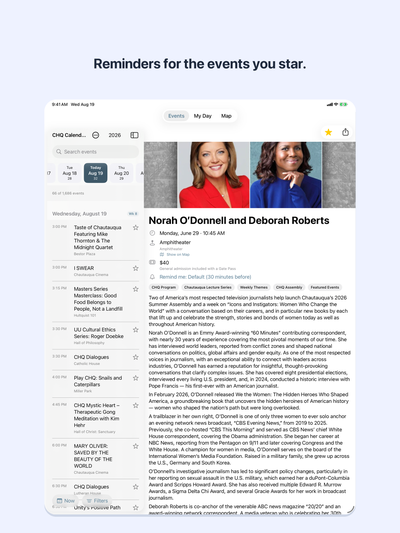
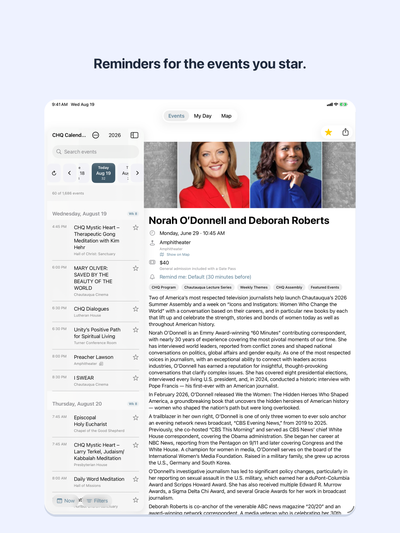
fix(ios): pin the rail's edge controls and let a tap own the highlight
Two user-reported day-rail defects on the Events tab:

- Swiping the rail away and tapping a chip moved the list to the right
  day but left nothing highlighted and the rail off-centre. The tapped
  day's pendingScroll resolves synchronously once it's already inside
  the window, and authority fell straight back to the scroll-derived
  anchor (visibleDays.min()), which the existing doc on visibleDays
  already showed lands a day or two short of a .top-anchored scrollTo's
  real destination. EventListView now tracks an explicit
  pinnedSelection, set by a tap and ranked above the scroll anchor,
  cleared only when the reader drags the list themselves
  (.onScrollPhaseChange .tracking/.interacting) — reusing
  PendingDayScroll's Key/staleness so a filter/scope change can't leave
  it stale.

- ⟳ Now and both step chevrons scrolled away with the chips because
  they lived inside the rail's own scrolling HStack, so a reader who'd
  swiped a few days along lost every way back to today.
  DayRailView.body now pins leading()/trailing() outside the horizontal
  ScrollView; only the chips scroll between them. The
  accessibilityIdentifier("day-rail") stays on the inner ScrollView
  (every UI test's revealByScrolling depends on that frame), and the
  group accessibility label/role move to the outer HStack. This also
  pins My Day's expand chevrons, since it's the same component.

Added two DayRailUITests cases proven to fail against the prior
[…]

diff --git a/ios/ChqCalendar/Features/Shared/DayRailView.swift b/ios/ChqCalendar/Features/Shared/DayRailView.swift
@@ -124,69 +124,85 @@ struct DayRailView<Leading: View, Trailing: View>: View {
     /// Tracking both lets the same comparison serve both triggers.
     @State private var lastCentered: (day: String, reanchorOn: [AnyHashable])?
 
+    /// `leading()`/`trailing()` are fixed furniture at the rail's two ends —
+    /// outside the horizontal `ScrollView` entirely — and only the chips
+    /// scroll between them. Before this shape (#245), both were part of the
+    /// same scrolling `HStack` as the chips: swiping the strip a few days
+    /// along scrolled `⟳ Now` and both step chevrons away with it, leaving
+    /// no way back to today except swiping back to find them. Pulling them
+    /// out of the scrollable content is what keeps them reachable no matter
+    /// how far the chips have scrolled.
     var body: some View {
-        ScrollViewReader { proxy in
-            ScrollView(.horizontal, showsIndicators: false) {
-                HStack(spacing: 8) {
-                    leading()
-                    ForEach(entries) { entry in
-                        DayChip(
-                            dayKey: entry.day,
-                            content: entry.content,
-                            isSelected: entry.day == selectedDay,
-                            isDisabled: disablesEmptyDays && entry.content.isEmpty
-                        ) {
-                            onSelect(entry.day)
+        HStack(spacing: 8) {
+            leading()
+            ScrollViewReader { proxy in
+                ScrollView(.horizontal, showsIndicators: false) {
+                    HStack(spacing: 8) {
+                        ForEach(entries) { entry in
+                            DayChip(
+                                dayKey: entry.day,
+                                content: entry.content,
+                                isSelected: entry.day == selectedDay,
+                                isDisabled: disablesEmptyDays && entry.content.isEmpty
+                            ) {
+                                onSelect(entry.day)
+                            }
+                            .id(entry.day)
                         }
-                        .id(entry.day)
                     }
-                    trailing()
+                    .padding(.horizontal, 8)
                 }
-                .padding(.horizontal)
+                .onScrollPhaseChange { _, newPhase in
+                    isDragging = newPhase == .tracking || newPhase == .interacting
+                }
+                .onAppear { scroll(proxy, to: selectedDay) }
+                .onChange(of: selectedDay) { _, day in
+                    guard !isDragging else { return }
+                    scroll(proxy, to: day)
+                }
+                // Gated the same as `selectedDay` above — this re-centre is
+                // exactly as capable of fighting a manual drag (My Day's expand
+                // toggle can fire while the reader has a finger on the rail),
+                // so it must not bypass the guard just because its trigger
+                // isn't `selectedDay` itself.
+                .onChange(of: reanchorOn) { _, _ in
+                    guard !isDragging else { return }
+                    scroll(proxy, to: selectedDay)
+                }
+                // Catches up anything that changed *while* suppressed above: the
+                // drag ending is not itself a `selectedDay`/`reanchorOn` change,
+                // so without this a re-centre that landed mid-drag would
+                // otherwise never get applied. Only fires when the target
+                // actually diverged from what's centered now — see
+                // `lastCentered`'s doc for why a plain "something changed" flag
+                // was tried and reverted.
+                .onChange(of: isDragging) { _, dragging in
+                    guard !dragging, let day = selectedDay,
+                        lastCentered?.day != day || lastCentered?.reanchorOn != reanchorOn
+                    else { return }
+                    scroll(proxy, to: day)
+                }
+                // Every UI test that queries the rail resolves it as
+                // `app.scrollViews["day-rail"]`, and `revealByScrolling`
+                // derives its drag coordinates from that element's frame —
+                // both depend on the identifier landing on exactly this
+                // `ScrollView`, not the outer `HStack` that now also holds
+                // `leading()`/`trailing()`. That's also the more correct
+                // frame for those drag coordinates now: it no longer
+                // includes the two fixed controls at the ends.
+                .accessibilityIdentifier("day-rail")
             }
-            .onScrollPhaseChange { _, newPhase in
-                isDragging = newPhase == .tracking || newPhase == .interacting
-            }
-            .onAppear { scroll(proxy, to: selectedDay) }
-            .onChange(of: selectedDay) { _, day in
-                guard !isDragging else { return }
-                scroll(proxy, to: day)
-            }
-            // Gated the same as `selectedDay` above — this re-centre is
-            // exactly as capable of fighting a manual drag (My Day's expand
-            // toggle can fire while the reader has a finger on the rail),
-            // so it must not bypass the guard just because its trigger
-            // isn't `selectedDay` itself.
-            .onChange(of: reanchorOn) { _, _ in
-                guard !isDragging else { return }
-                scroll(proxy, to: selectedDay)
-            }
-            // Catches up anything that changed *while* suppressed above: the
-            // drag ending is not itself a `selectedDay`/`reanchorOn` change,
-            // so without this a re-centre that landed mid-drag would
-            // otherwise never get applied. Only fires when the target
-            // actually diverged from what's centered now — see
-            // `lastCentered`'s doc for why a plain "something changed" flag
-            // was tried and reverted.
-            .onChange(of: isDragging) { _, dragging in
-                guard !dragging, let day = selectedDay,
-                    lastCentered?.day != day || lastCentered?.reanchorOn != reanchorOn
-                else { return }
-                scroll(proxy, to: day)
-            }
+            trailing()
         }
-        // Chained off `ScrollViewReader`, not the `ScrollView` inside it.
-        // `ScrollViewReader` contributes no accessibility element of its
-        // own, so these three modifiers land on the `ScrollView` below it
-        // either way — confirmed by dumping `app.debugDescription` against
-        // a running build, which reports `ScrollView, ... identifier:
-        // 'day-rail'`. Do not "fix" this by moving the modifiers onto the
-        // inner `ScrollView` directly: it would compile and look tidier,
-        // but every UI test that queries `app.scrollViews["day-rail"]`
-        // depends on the identifier landing exactly here.
+        // On the outer `HStack` now that `leading()`/`trailing()` live
+        // beside the `ScrollView` rather than inside it — a group of
+        // controls still needs one group role and one label covering the
+        // whole strip (the lesson from the web header menu, PR #228/#219).
+        // `.contain` keeps every descendant (the two end controls, each
+        // chip) individually accessible; only the container-level role and
+        // label move here.
         .accessibilityElement(children: .contain)
         .accessibilityLabel(accessibilityLabel)
-        .accessibilityIdentifier("day-rail")
     }
 
     private func scroll(_ proxy: ScrollViewProxy, to day: String?) {

diff --git a/ios/ChqCalendar/Features/Calendar/EventListView.swift b/ios/ChqCalendar/Features/Calendar/EventListView.swift
@@ -102,6 +102,29 @@ struct EventListView: View {
     /// the window *away* from the target without ever covering it).
     @State private var pendingScroll: PendingDayScroll.Target?
 
+    /// A day the reader explicitly chose — by tapping a chip or a step
+    /// control — that outranks `scrollAnchor` until the reader actually
+    /// scrolls the list themselves.
+    ///
+    /// Fixes the report that the rail loses its highlight after a tap: once
+    /// `pendingScroll` resolves (synchronously, for a target already inside
+    /// the window — see `resolvePendingScroll`), authority used to fall
+    /// straight back to `scrollAnchor`, whose `visibleDays.min()` — per the
+    /// long finding on `visibleDays` above — lands a day or two short of
+    /// where a `.top`-anchored `scrollTo` actually put the reader, because
+    /// `List` keeps an off-screen earlier header's `onAppear` counted after
+    /// a programmatic jump. That pointed the rail at a chip the reader
+    /// hadn't chosen and wasn't looking at. Pinning the tapped day here,
+    /// ranked above `scrollAnchor`, keeps the rail on the day the reader
+    /// actually asked for regardless of that imprecision.
+    ///
+    /// Reuses `PendingDayScroll.Target`/`Key` rather than a second staleness
+    /// notion: the same "everything but the window-expansion fields"
+    /// identity that makes a pending scroll stale after a scope change makes
+    /// a pinned selection stale for exactly the same reason, so
+    /// `PendingDayScroll.isStale` answers both.
+    @State private var pinnedSelection: PendingDayScroll.Target?
+
     #if DEBUG
     /// The wall-clock moment the current `pendingScroll` is allowed to
     /// resolve, stamped from `model.uiTestPendingScrollDelay` — see that
@@ -126,6 +149,18 @@ struct EventListView: View {
     /// because `DayGroup.id` sorts lexicographically the same as
     /// chronologically (`yyyy-MM-dd`).
     private var scrollAnchor: String? { visibleDays.min() }
+
+    /// `pinnedSelection`, if it is still current: neither stale under the
+    /// filter identity it was chosen under, nor a day navigation can no
+    /// longer reach (a filter change can narrow `nav.bounds` out from under
+    /// a day that was in range when it was tapped).
+    private func pinnedSelectionDay(in nav: NavMatching) -> String? {
+        guard let pinnedSelection else { return nil }
+        let currentKey = PendingDayScroll.key(for: model.filter, year: model.selectedYear)
+        guard !PendingDayScroll.isStale(pinnedSelection, currentKey: currentKey) else { return nil }
+        guard nav.bounds.contains(pinnedSelection.day) else { return nil }
+        return pinnedSelection.day
+    }
 
     private enum FilterBarSheet: String, Identifiable {
         case date
@@ -225,11 +260,14 @@ struct EventListView: View {
     /// is a navigation surface, not a filter readout.
     private func dayRail(_ nav: NavMatching) -> some View {
         let todayKey = ChqTime.dayKey(for: model.now())
-        // A pending tap outranks the scroll anchor until it lands, so a tap
-        // does not flicker back to where the reader was; the scroll anchor
-        // outranks the stale `anchorDay` fallback, which only still matters
-        // before any section header has appeared at all.
-        let anchor = pendingScroll?.day ?? scrollAnchor ?? anchorDay
+        // A pending tap outranks everything else until it lands, so a tap
+        // does not flicker back to where the reader was; the pinned
+        // selection then outranks the scroll anchor, so the rail stays on
+        // the day the reader chose rather than the imprecise scroll-derived
+        // one — see `pinnedSelection`'s doc; the scroll anchor outranks the
+        // stale `anchorDay` fallback, which only still matters before any
+        // section header has appeared at all.
+        let anchor = pendingScroll?.day ?? pinnedSelectionDay(in: nav) ?? scrollAnchor ?? anchorDay
         let step = DayRailNavigation.stepTargets(anchor: anchor, eventDays: nav.eventDays)
         let reachableToday = DayRailNavigation.reachableTodayKey(
             model.isCurrentYear ? todayKey : nil, bounds: nav.bounds)
@@ -337,9 +375,11 @@ struct EventListView: View {
     private func selectDay(_ dayKey: String) {
         guard model.goToDay(dayKey) else { return }
         anchorDay = dayKey
-        pendingScroll = PendingDayScroll.Target(
+        let target = PendingDayScroll.Target(
             day: dayKey,
             key: PendingDayScroll.key(for: model.filter, year: model.selectedYear))
+        pendingScroll = target
+        pinnedSelection = target
         #if DEBUG
         // `model.uiTestPendingScrollDelay` is still consumed once, here —
         // reset to `0` so only this one arm is delayed, not every tap after
@@ -488,6 +528,21 @@ struct EventListView: View {
             }
             .listStyle(.plain)
             .scrollDismissesKeyboard(.immediately)
+            // A reader who grabs the list themselves has moved on from
+            // whatever they last tapped — clear the pin so the highlight
+            // goes back to tracking where they scroll to. Same API the rail
+            // itself already uses for the mirror-image guard (see
+            // `DayRailView.isDragging`'s doc): `.tracking`/`.interacting` is
+            // a finger actually on the list, never the programmatic
+            // `scrollTo` that lands a tap. Gating on those two phases only —
+            // not `.decelerating`/`.animating`/`.idle` — matters here for
+            // the same reason it matters there: the programmatic scroll that
+            // follows a tap must not clear the pin it just set.
+            .onScrollPhaseChange { _, newPhase in
+                if newPhase == .tracking || newPhase == .interacting {
+                    pinnedSelection = nil
+                }
+            }
             // No `contentMargins(.bottom, …)` here on purpose. Since task 16,
             // the date/filter pills are no longer a toolbar item — they're this
             // view's own hand-rolled `filterPillBar`, applied to `content` via

diff --git a/ios/ChqCalendarUITests/DayRailUITests.swift b/ios/ChqCalendarUITests/DayRailUITests.swift
@@ -447,6 +447,20 @@ final class DayRailUITests: XCTestCase {
         XCTAssertFalse(app.buttons["day-step-previous"].isEnabled)
     }
 
+    /// Defect 2 (user report, #245): `⟳ Now` and both step chevrons used to
+    /// live *inside* the rail's scrolling `HStack` alongside the chips, so a
+    /// reader who swiped a few days along lost all three controls — getting
+    /// back to today meant swiping until Now scrolled back into view, which
+    /// across a whole season is a lot of swiping. The fix pins `leading()`/
+    /// `trailing()` outside the horizontal `ScrollView` entirely
+    /// (`DayRailView.body`), so Now must now be reachable with **no**
+    /// reveal-scrolling at all, no matter how far the chips have scrolled —
+    /// that's the guarantee this test exists to pin. It deliberately does
+    /// NOT call `revealByScrolling` on `now`: doing so would silently paper
+    /// over a regression back to the old scrolls-away behavior (a `now`
+    /// that's actually off-screen would simply get dragged back on-screen
+    /// by the same helper that reveals chips, masking the exact defect this
+    /// test is meant to catch).
     func testNowReturnsToTodayAfterNavigatingAway() {
         let app = launchFixtureApp(now: "2026-07-01 10:00:00")
         let rail = app.scrollViews["day-rail"]
@@ -461,17 +475,50 @@ final class DayRailUITests: XCTestCase {
         chip.tap()
         XCTAssertTrue(app.staticTexts["Friday, August 21"].waitForExistence(timeout: 10))
 
-        // `Now` sits at the leading end of the rail's own scrollable content
-        // (not pinned to the screen edge), and the rail just re-centered on
-        // 2026-08-21 — so `Now` is off-screen to the left and needs the same
-        // reveal as any other distant control.
         let now = app.buttons["day-rail-now"]
-        revealByScrolling(now, in: app, rail: rail, rowMidY: rowMidY)
+        XCTAssertTrue(
+            now.isHittable,
+            "⟳ Now was not reachable without scrolling after the rail moved far away — "
+                + "it must be pinned outside the scrolling chip strip, not part of it")
         now.tap()
 
         XCTAssertTrue(
             app.staticTexts["Wednesday, July 1"].waitForExistence(timeout: 10),
             "⟳ Now did not return the reader to today")
+    }
+
+    /// Defect 1 (user report, #245): swipe the rail to another part of the
+    /// season, tap a chip — the event list jumps to that day correctly, but
+    /// the rail never re-centres and nothing is highlighted. Root cause: the
+    /// tapped day's `pendingScroll` resolves synchronously once the target
+    /// is already inside the window (`EventListView.resolvePendingScroll`),
+    /// and authority used to fall straight back to `scrollAnchor` —
+    /// `visibleDays.min()` — which the long finding on `EventListView.
+    /// visibleDays` documents landing a day or two short of a
+    /// `.top`-anchored `scrollTo`'s actual destination (2026-07-09 measured
+    /// landing on 2026-07-07). The fix adds `pinnedSelection`, set by a tap
+    /// and ranked above `scrollAnchor`, so the rail stays on the day the
+    /// reader actually chose.
+    ///
+    /// Reveals by dragging the RAIL itself (`revealByScrolling`), not the
+    /// list — the reported scenario has no list scroll or window expansion
+    /// involved before the tap, only the rail moving.
+    func testTappingAChipAfterSwipingTheRailAwaySelectsAndCentersIt() {
+        let app = launchFixtureApp(now: "2026-07-01 10:00:00")
+        let rail = app.scrollViews["day-rail"]
+        XCTAssertTrue(rail.waitForExistence(timeout: 20))
+
+        let chip = app.buttons["day-chip-2026-07-09"]
+        let rowMidY = app.buttons["day-chip-2026-07-01"].frame.midY
+        revealByScrolling(chip, in: app, rail: rail, rowMidY: rowMidY)
+        chip.tap()
+
+        XCTAssertTrue(
+            chip.isSelected,
+            "The tapped chip was not highlighted — the rail fell back to the imprecise scroll-derived anchor")
+        XCTAssertTrue(
+            chip.isHittable,
+            "The tapped chip is not visible in the rail without further scrolling — the rail did not re-centre on it")
     }
 
     /// Off-season, today is outside the navigable bounds, and a target
